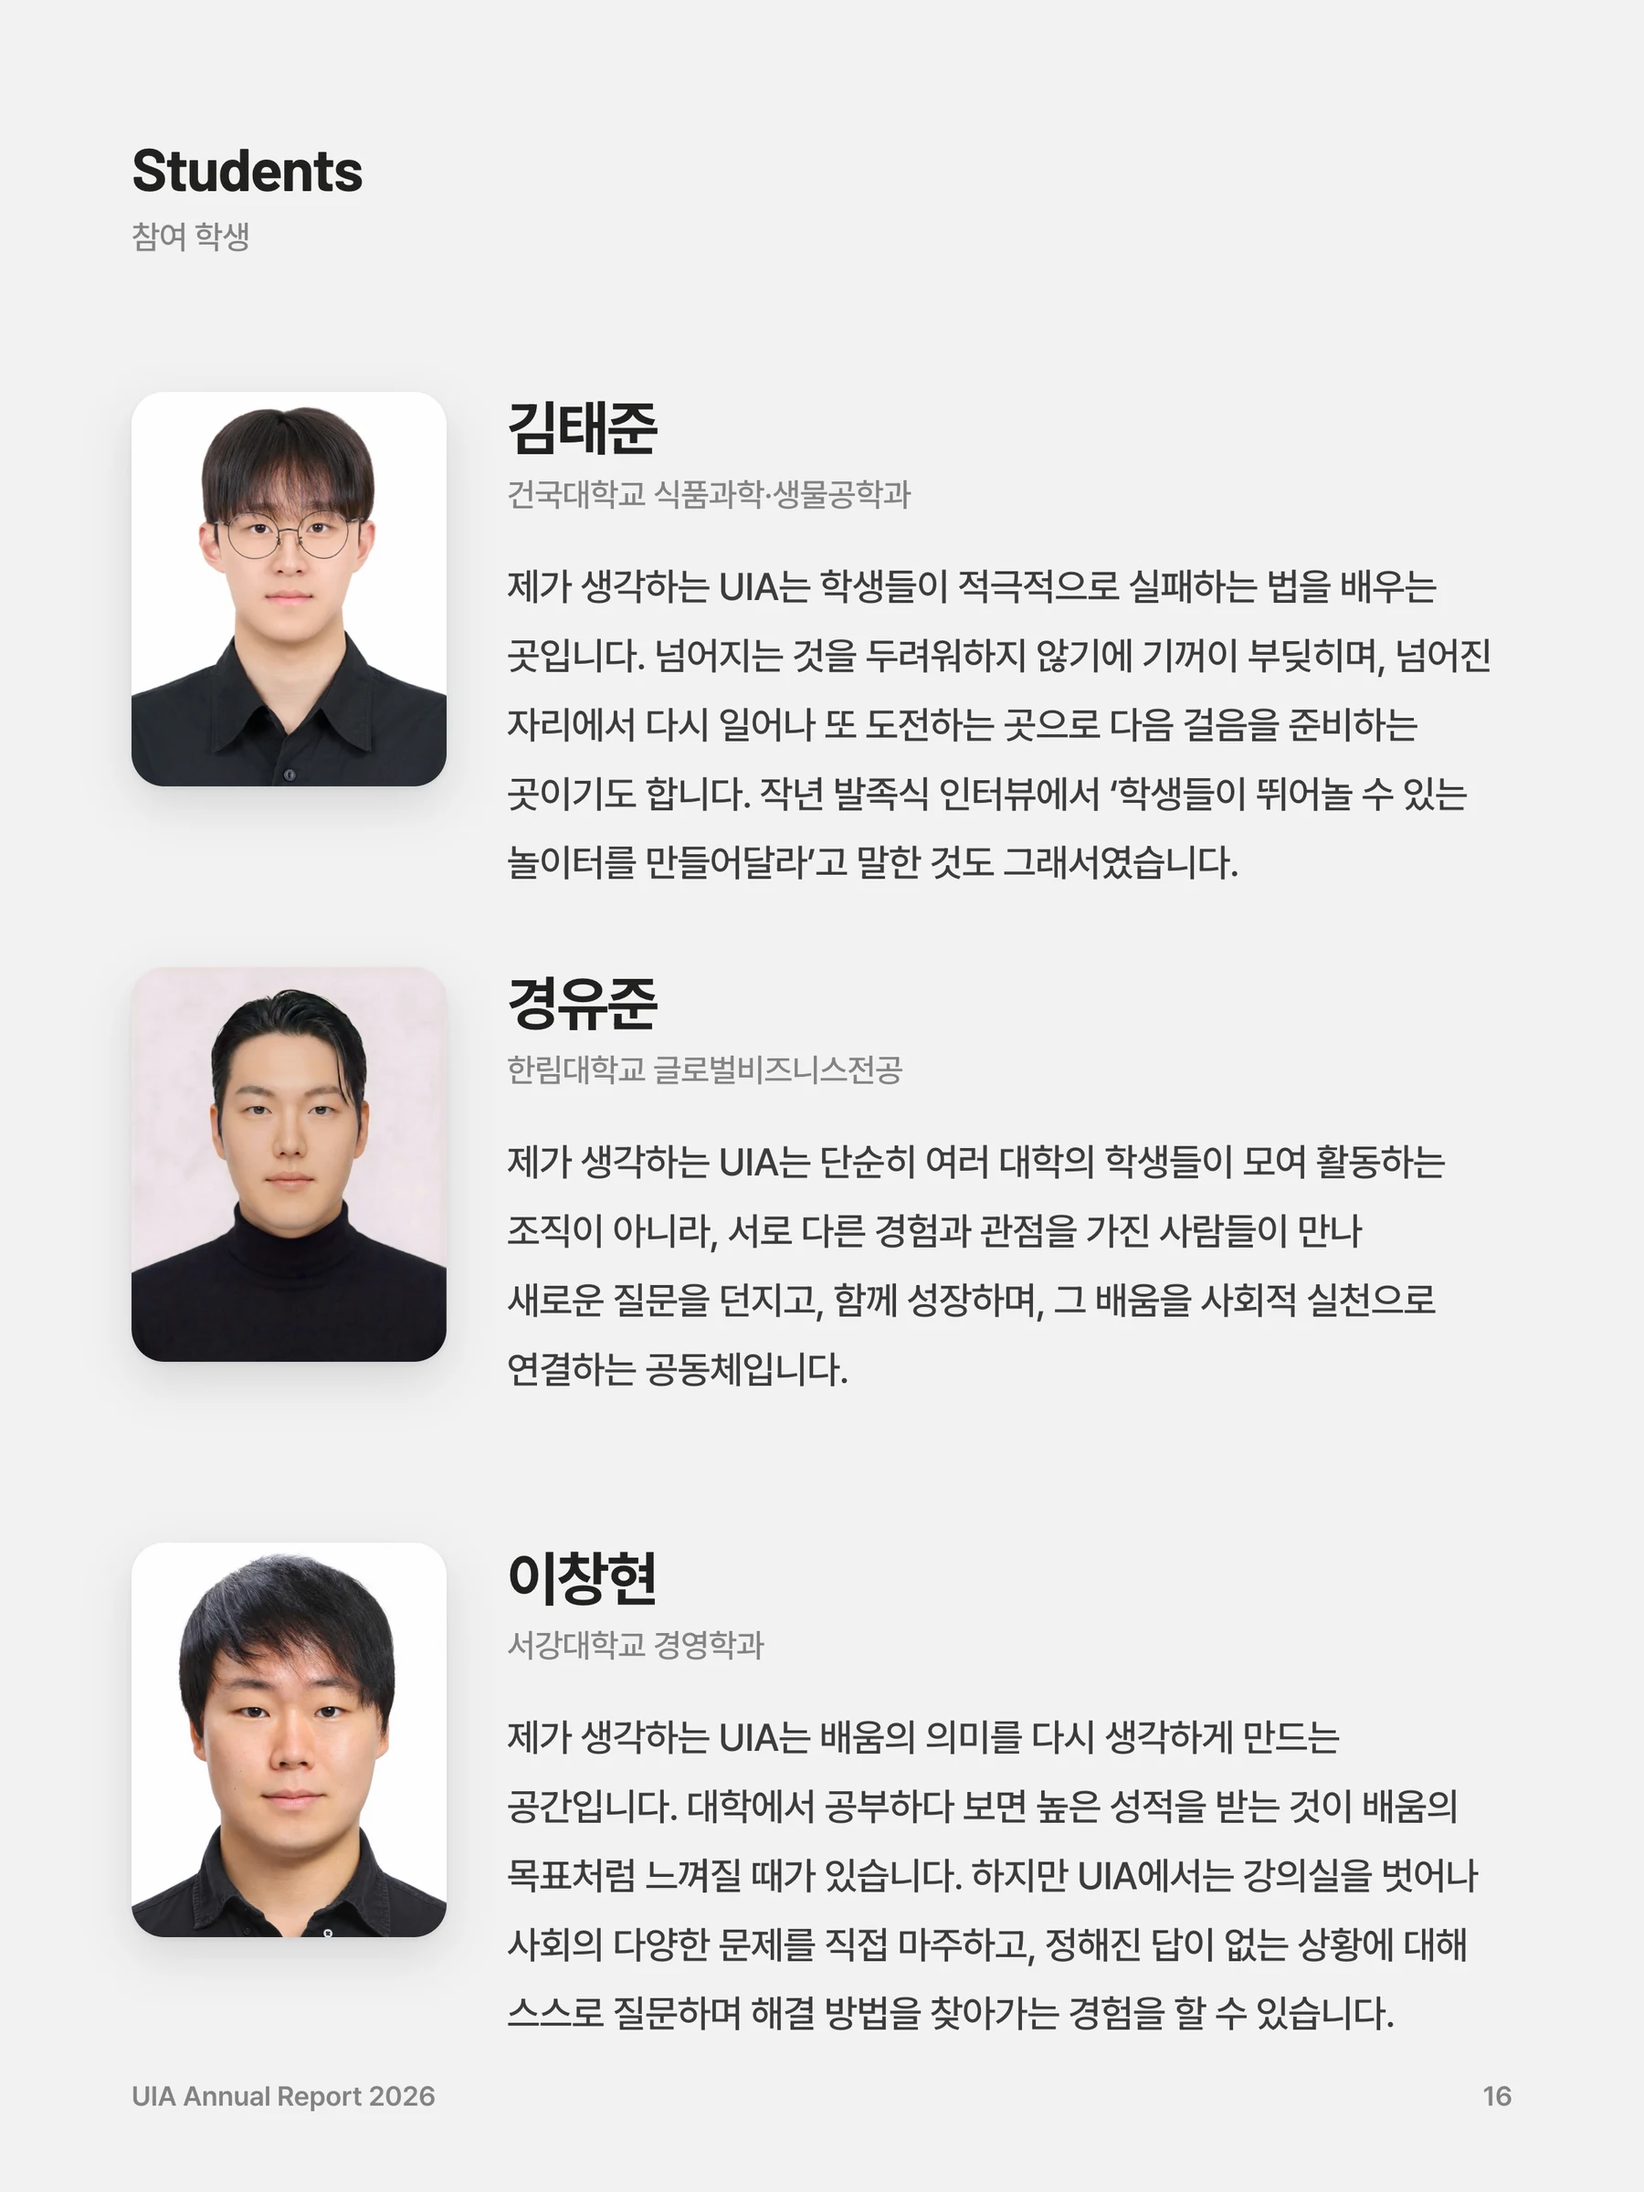
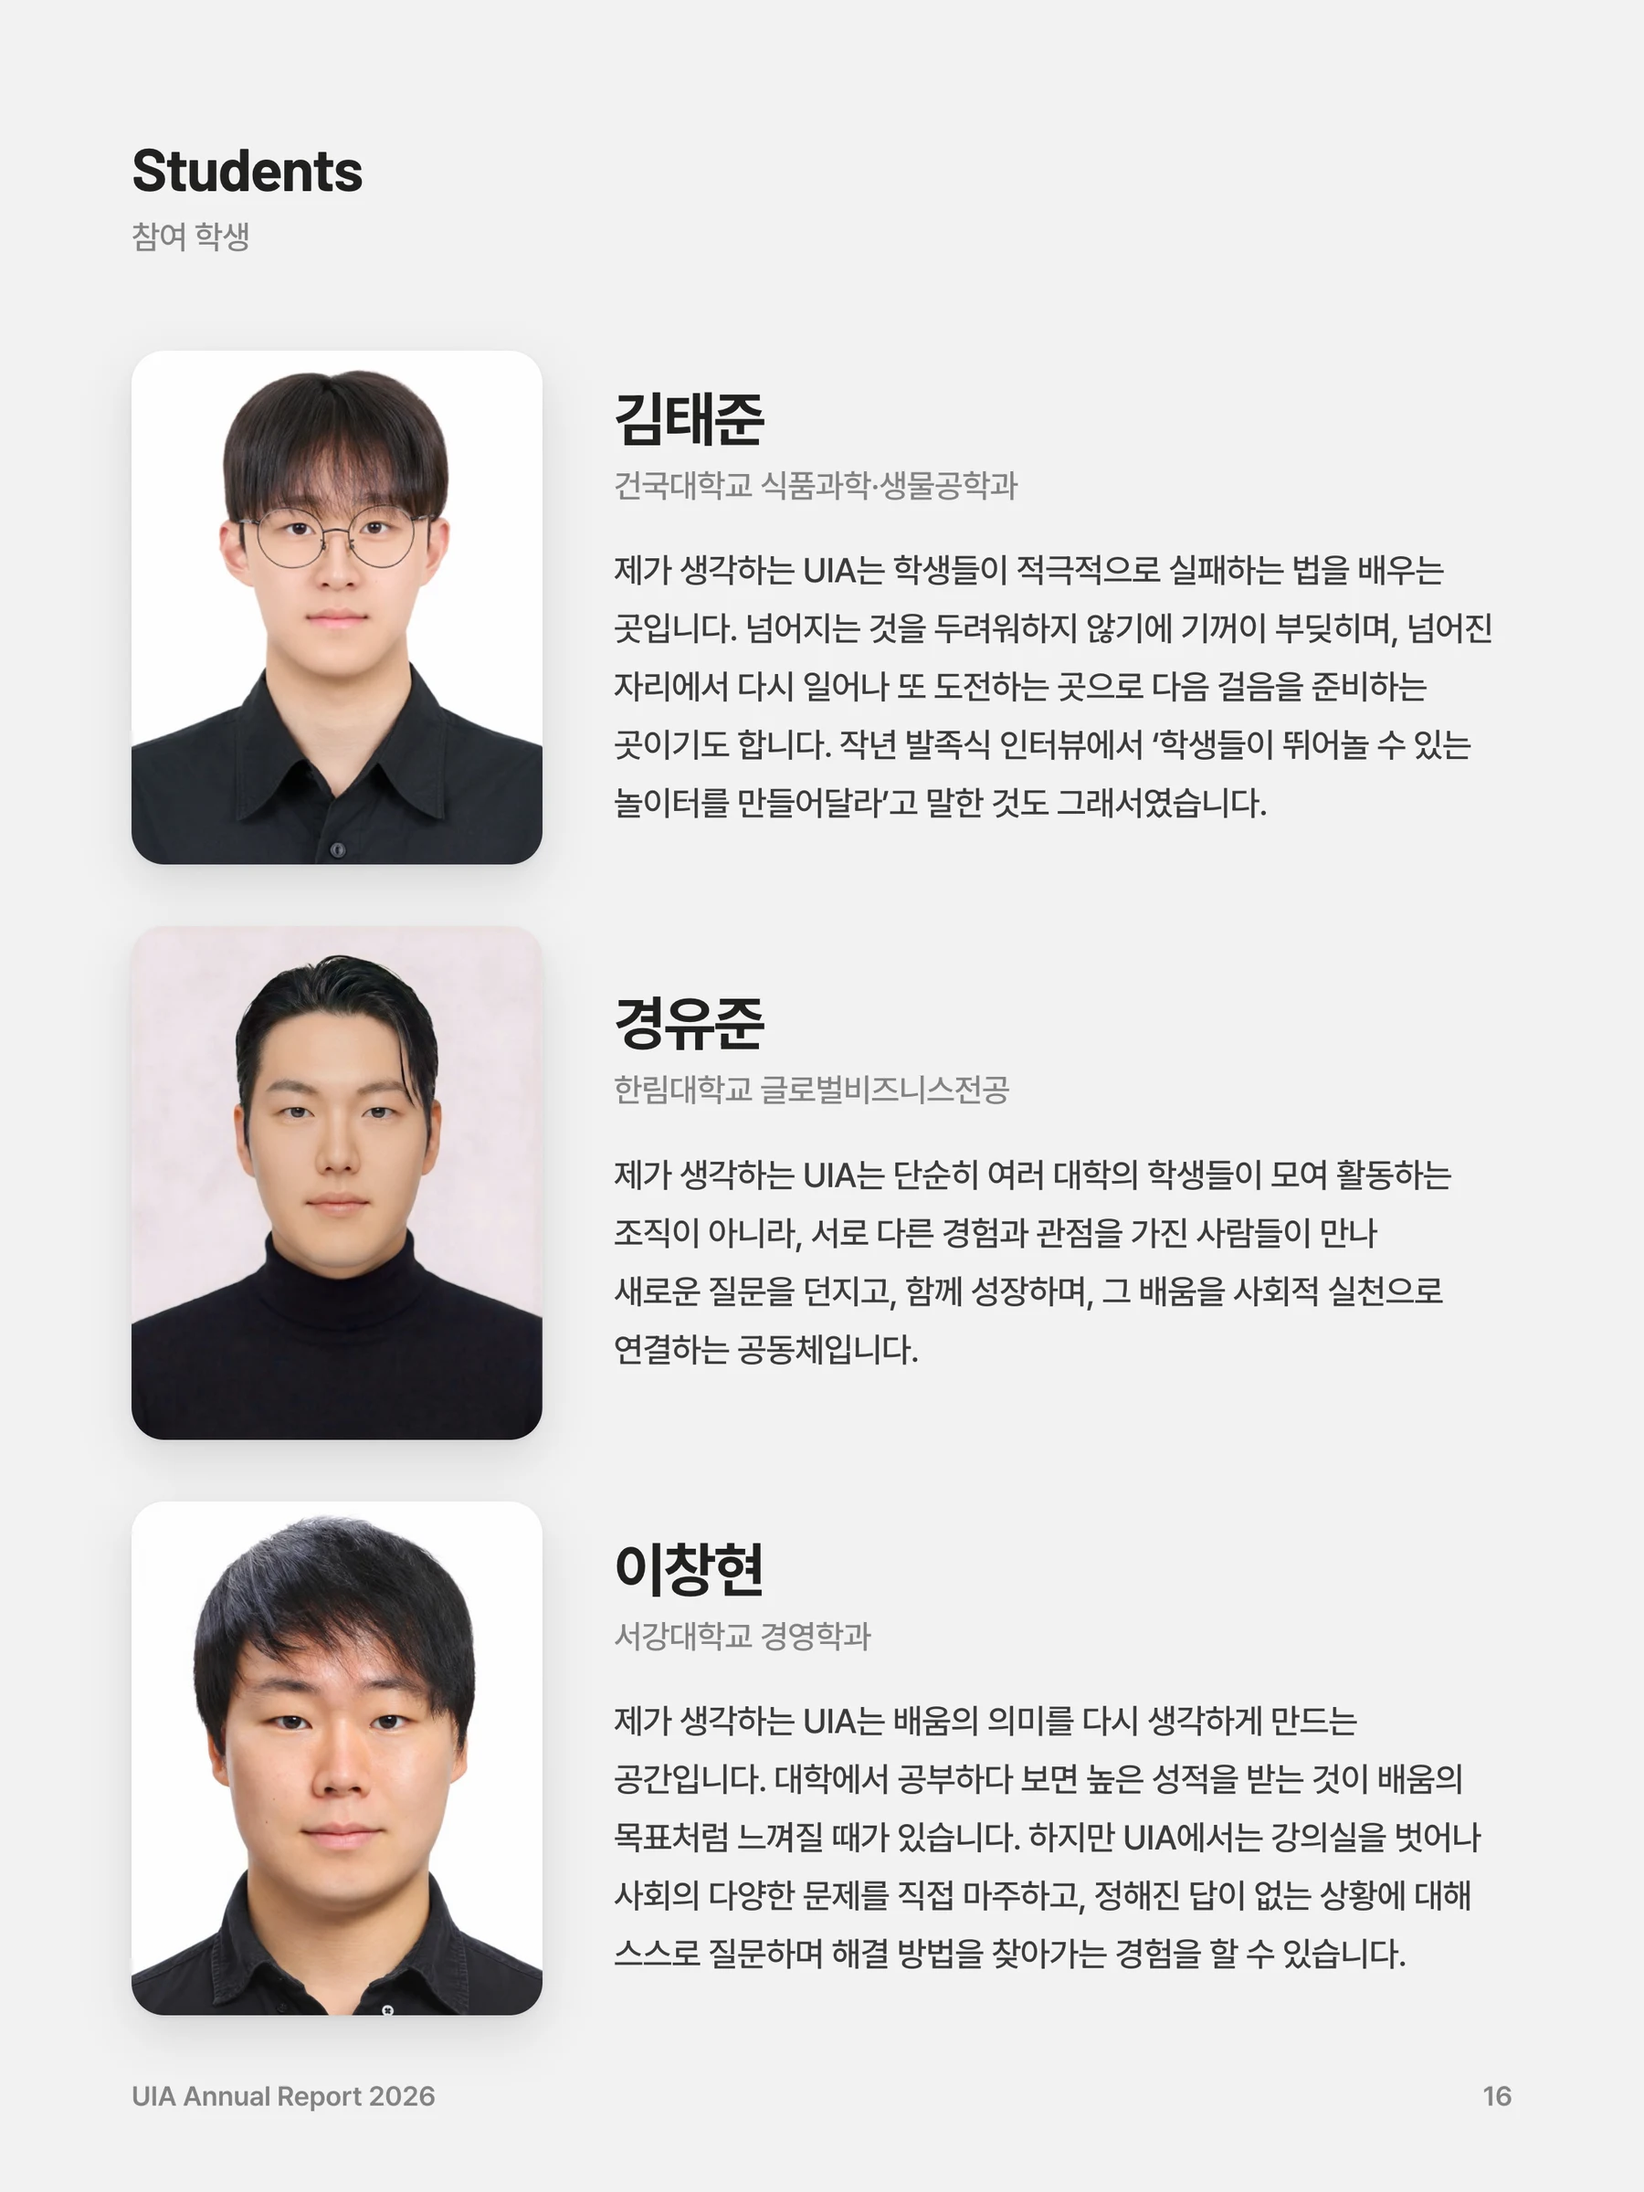
학생 쪽 사진 확대와 글 정렬

Changed region(s): [[0.0622, 0.6875, 0.9022, 0.9375], [0.0622, 0.1562, 0.9022, 0.4062], [0.0622, 0.4375, 0.8711, 0.6562]]

diff --git a/source/pages.html b/source/pages.html
@@ -201,9 +201,9 @@ pages.push(`<section class="page" id="p13"><div class="pad"><h2 class="t-h2">Fou
 // 14 경주 사진
 pages.push(`<section class="page" id="p14"><div class="pad"><h2 class="t-h2">Inside the sessions</h2><p class="ko" style="margin-top:4px">경주 세션 현장</p>${gridPhotos(PHOTOS.gjGrid,0,150,1008,1250,24)}</div>${folio(14)}</section>`);
 // 15, 16 사람
-const personBlock=(p,top)=>`<div style="position:absolute;left:0;right:0;top:${top}px;display:grid;grid-template-columns:230px 1fr;gap:44px;align-items:start"><div class="photo" style="position:relative;width:230px;height:288px">${img(A+p.p)}</div><div><div class="t-h2" style="font-family:var(--sans);font-weight:700;letter-spacing:-.035em">${p.n}</div><p class="ko" style="margin-top:2px">${p.s}</p><p style="margin-top:22px;font:500 28px/1.8 var(--sans);letter-spacing:-.02em;color:var(--ink2)">${p.t}</p></div></div>`;
-pages.push(`<section class="page" id="p15"><div class="pad"><h2 class="t-h2">Students</h2><p class="ko" style="margin-top:4px">참여 학생</p>${personBlock(PEOPLE[0],190)}${personBlock(PEOPLE[1],610)}${personBlock(PEOPLE[2],1030)}</div>${folio(15)}</section>`);
-pages.push(`<section class="page" id="p16"><div class="pad"><h2 class="t-h2">Students</h2><p class="ko" style="margin-top:4px">참여 학생</p>${personBlock(PEOPLE[3],190)}${personBlock(PEOPLE[4],610)}${personBlock(PEOPLE[5],1030)}</div>${folio(16)}</section>`);
+const personBlock=(p,top)=>`<div style="position:absolute;left:0;right:0;top:${top}px;height:375px;display:grid;grid-template-columns:300px 1fr;gap:52px;align-items:center"><div class="photo" style="position:relative;width:300px;height:375px">${img(A+p.p)}</div><div><div class="t-h2" style="font-family:var(--sans);font-weight:700;letter-spacing:-.035em">${p.n}</div><p class="ko" style="margin-top:2px">${p.s}</p><p style="margin-top:20px;font:500 25px/1.7 var(--sans);letter-spacing:-.02em;color:var(--ink2)">${p.t}</p></div></div>`;
+pages.push(`<section class="page" id="p15"><div class="pad"><h2 class="t-h2">Students</h2><p class="ko" style="margin-top:4px">참여 학생</p>${personBlock(PEOPLE[0],160)}${personBlock(PEOPLE[1],580)}${personBlock(PEOPLE[2],1000)}</div>${folio(15)}</section>`);
+pages.push(`<section class="page" id="p16"><div class="pad"><h2 class="t-h2">Students</h2><p class="ko" style="margin-top:4px">참여 학생</p>${personBlock(PEOPLE[3],160)}${personBlock(PEOPLE[4],580)}${personBlock(PEOPLE[5],1000)}</div>${folio(16)}</section>`);
 // 17 특별관
 pages.push(`<section class="page dark" id="p17" style="--bgc:#212120"><div class="shape" style="right:-210px;bottom:-210px;width:760px;height:760px">${RING}</div><div class="shape" style="left:-120px;top:930px;width:640px;height:320px">${WAVE}</div>
  <div class="pad"><h1 class="t-h1" style="color:#f2f2f2">UIA<br>Special Hall</h1><p class="ko-lg" style="margin-top:14px;color:#adaeae">UIA 특별관</p>
